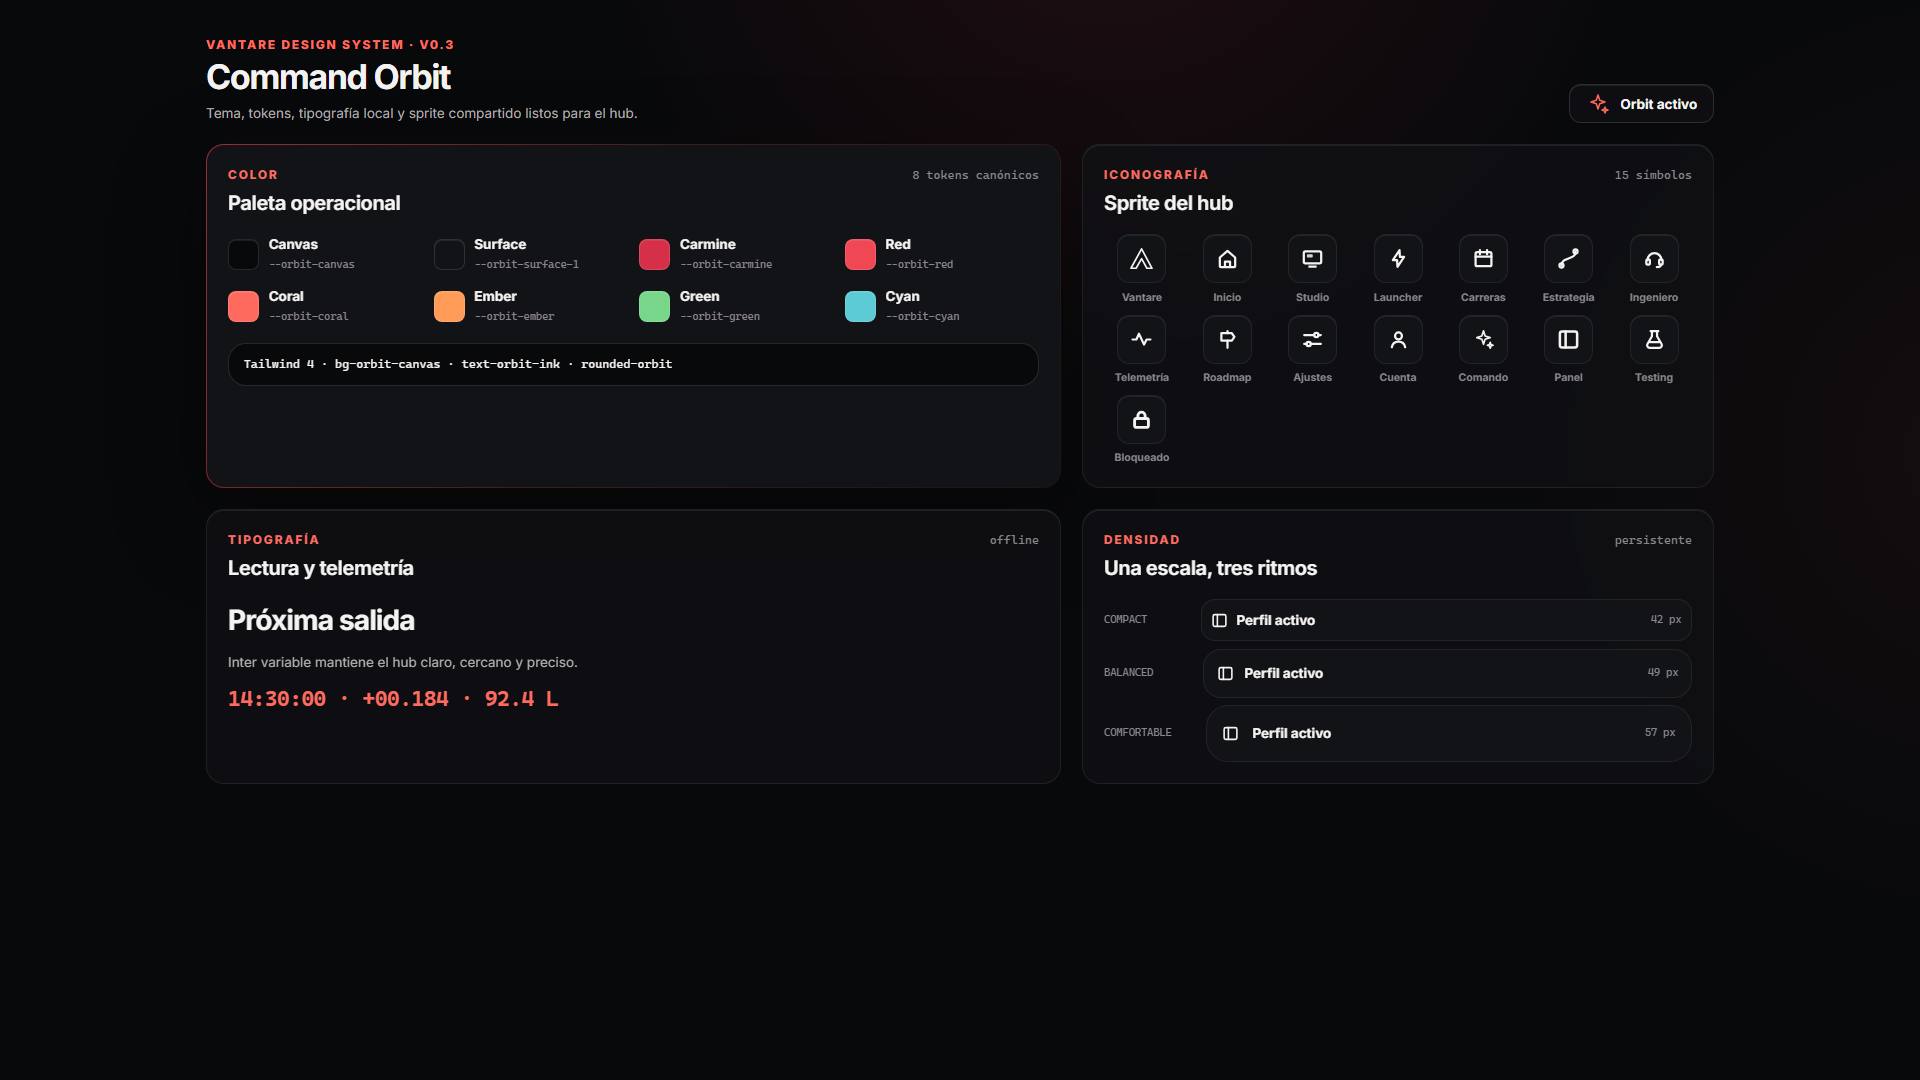
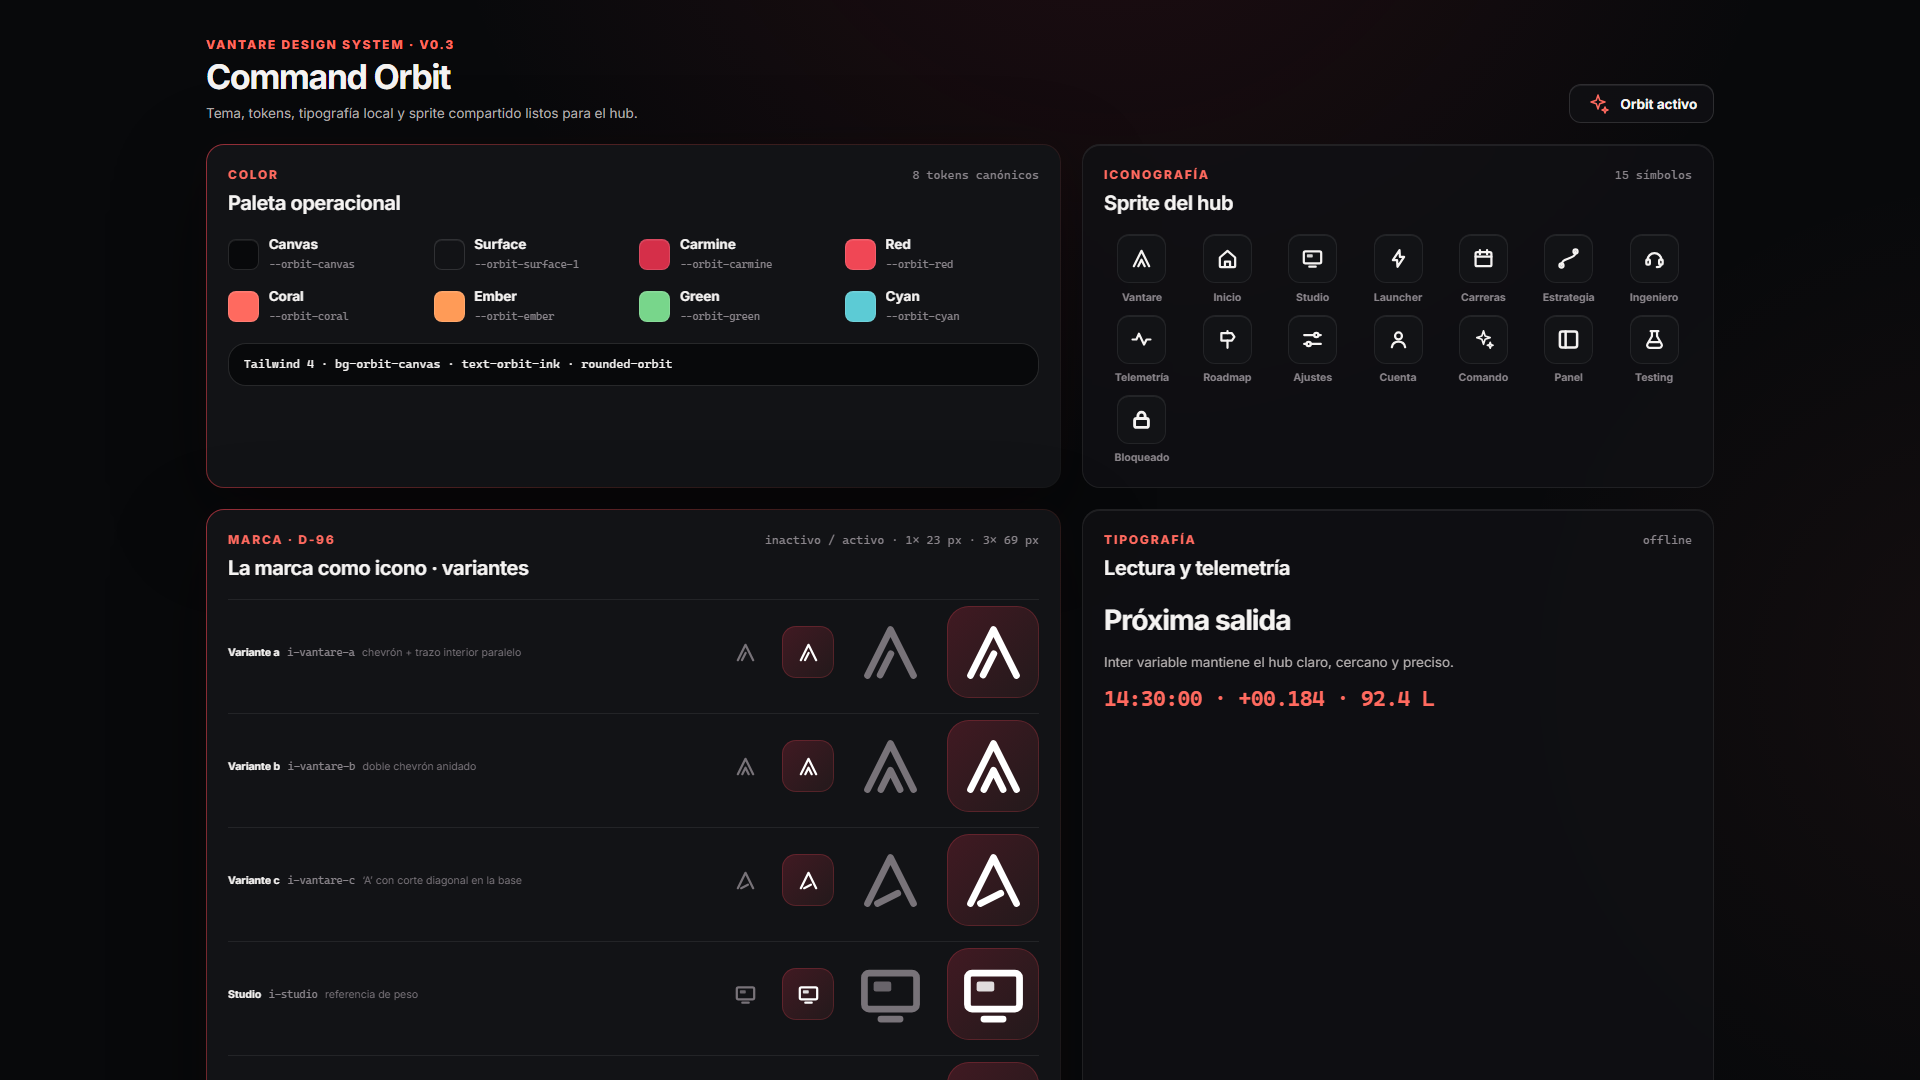
feat(hub): Orbit rail — variantes de la marca como icono (a elegir)
El `i-vantare` anterior era un contorno cerrado en caja 24: a 23 px se leía como
un triángulo con un hueco pequeño y no casaba con el peso de sus vecinos, que
son formas abiertas de línea en caja 18. Se rehace en tres variantes que
comparten el chevrón exterior `M3 15 9 3l6 12` (caja 18, alto visual 3→15 igual
que `i-studio`/`i-launcher`, trazo heredado 1.75, `fill: none`, ápice y extremos
redondos) y se diferencian en el gesto interior:

- `i-vantare-a` · trazo corto paralelo al brazo izquierdo (`M9.1 9.3 6.3 14.9`)
- `i-vantare-b` · doble chevrón anidado (`M6.5 15 9 10l2.5 5`), el hueco en ‘V’
- `i-vantare-c` · corte diagonal en la base (`M5.6 15 10.9 12.3`), la ‘A’

Las tres se quedan en el sprite hasta que se decida; `i-vantare`, que es lo que
consume `RAIL_ORDER`, copia hoy la variante b de forma provisional. La franja de
comparación vive en `orbit-tokens-harness` (inactivo/activo, 23 px y 69 px,
contra `i-studio`/`i-launcher`/`i-carreras`) y el harness de fundamentos la
guarda en `evidence/porte/01-shell/orbit-rail-mark-variants.png`. La rejilla de
iconos sigue con 15 símbolos: las variantes van en su propio panel.

diff --git a/vantare-v2/frontend/src/orbit-tokens-harness.tsx b/vantare-v2/frontend/src/orbit-tokens-harness.tsx
@@ -38,6 +38,17 @@ const icons: { name: IconName; label: string }[] = [
   { name: "i-lock", label: "Bloqueado" },
 ];
 
+/** Franja de comparación de la marca como icono (D-96): tres variantes a
+ *  decidir, medidas contra tres vecinos del catálogo. */
+const markRows: { name: IconName; label: string; note: string }[] = [
+  { name: "i-vantare-a", label: "Variante a", note: "chevrón + trazo interior paralelo" },
+  { name: "i-vantare-b", label: "Variante b", note: "doble chevrón anidado" },
+  { name: "i-vantare-c", label: "Variante c", note: "‘A’ con corte diagonal en la base" },
+  { name: "i-studio", label: "Studio", note: "referencia de peso" },
+  { name: "i-launcher", label: "Launcher", note: "referencia de peso" },
+  { name: "i-carreras", label: "Carreras", note: "referencia de peso" },
+];
+
 export function Harness() {
   return (
     <main className="orbit-harness" data-testid="orbit-foundations-harness">
@@ -96,6 +107,39 @@ export function Harness() {
                   <Icon name={icon.name} size={23} strokeWidth={1.75} />
                 </span>
                 <span>{icon.label}</span>
+              </div>
+            ))}
+          </div>
+        </article>
+
+        <article className="orbit-harness__panel orbit-harness__panel--featured">
+          <div className="orbit-harness__panel-head">
+            <div>
+              <p className="orbit-harness__eyebrow">Marca · D-96</p>
+              <h2>La marca como icono · variantes</h2>
+            </div>
+            <span className="orbit-harness__meta">inactivo / activo · 1× 23 px · 3× 69 px</span>
+          </div>
+          <div className="orbit-harness__marks" data-testid="orbit-mark-variants">
+            {markRows.map((row) => (
+              <div className="orbit-harness__mark" key={row.name}>
+                <span className="orbit-harness__mark-name">
+                  <strong>{row.label}</strong>
+                  <code>{row.name}</code>
+                  <em>{row.note}</em>
+                </span>
+                <span className="orbit-harness__mark-tile">
+                  <Icon name={row.name} size={23} strokeWidth={1.75} />
+                </span>
+                <span className="orbit-harness__mark-tile orbit-harness__mark-tile--active">
+                  <Icon name={row.name} size={23} strokeWidth={1.75} />
+                </span>
+                <span className="orbit-harness__mark-tile orbit-harness__mark-tile--xl">
+                  <Icon name={row.name} size={69} strokeWidth={1.75} />
+                </span>
+                <span className="orbit-harness__mark-tile orbit-harness__mark-tile--xl orbit-harness__mark-tile--active">
+                  <Icon name={row.name} size={69} strokeWidth={1.75} />
+                </span>
               </div>
             ))}
           </div>

diff --git a/vantare-v2/frontend/src/orbit-tokens-harness.css b/vantare-v2/frontend/src/orbit-tokens-harness.css
@@ -265,3 +265,62 @@
 .orbit-harness__density-row code {
   margin-left: auto;
 }
+
+/* ---- Marca como icono · variantes (D-96) --------------------------------
+   Los tiles copian el botón del rail (52 px, radio 14, ink-4; activo con el
+   degradado carmín) para juzgar las variantes en su contexto real. */
+
+.orbit-harness__marks {
+  display: grid;
+  gap: calc(var(--orbit-space) * .4);
+}
+
+.orbit-harness__mark {
+  display: grid;
+  grid-template-columns: minmax(0, 1fr) repeat(2, 52px) repeat(2, 92px);
+  align-items: center;
+  gap: calc(var(--orbit-space) * .5);
+  padding: calc(var(--orbit-space) * .3) 0;
+  border-top: 1px solid var(--orbit-line);
+}
+
+.orbit-harness__mark-name {
+  display: flex;
+  min-width: 0;
+  flex-wrap: wrap;
+  align-items: baseline;
+  gap: calc(var(--orbit-space) * .35);
+  color: var(--orbit-ink-3);
+  font-size: var(--orbit-fs-micro);
+}
+
+.orbit-harness__mark-name strong {
+  color: var(--orbit-ink);
+}
+
+.orbit-harness__mark-name em {
+  color: var(--orbit-ink-4);
+  font-style: normal;
+}
+
+.orbit-harness__mark-tile {
+  display: grid;
+  width: 52px;
+  height: 52px;
+  place-items: center;
+  border-radius: 14px;
+  color: var(--orbit-ink-4);
+  background: transparent;
+}
+
+.orbit-harness__mark-tile--xl {
+  width: 92px;
+  height: 92px;
+  border-radius: 22px;
+}
+
+.orbit-harness__mark-tile--active {
+  color: #fff;
+  background: linear-gradient(135deg, rgba(213, 47, 73, .24), rgba(255, 106, 95, .07));
+  box-shadow: inset 0 0 0 1px rgba(240, 71, 85, .22);
+}

diff --git a/vantare-v2/frontend/src/ui/orbit/Icon.tsx b/vantare-v2/frontend/src/ui/orbit/Icon.tsx
@@ -2,6 +2,9 @@ import spriteUrl from "../../assets/orbit-icons.svg?no-inline";
 
 export type IconName =
   | "i-vantare"
+  | "i-vantare-a"
+  | "i-vantare-b"
+  | "i-vantare-c"
   | "i-inicio"
   | "i-studio"
   | "i-launcher"

diff --git a/vantare-v2/docs/design/orbit-v03/00-decisiones.md b/vantare-v2/docs/design/orbit-v03/00-decisiones.md
@@ -328,3 +328,16 @@ Lo que **no** cambia: el diseño, los tokens y los datos. Esto es cableado y est
 (1) **Inicio lleva la marca de Vantare, no una casita.** El sprite gana `i-vantare`, el chevrón ‘A’ sin travesaño del logotipo trazado como contorno cerrado con las reglas del resto del sprite (`stroke="currentColor"`, trazo heredado 1.75, sin relleno, uniones redondas). Caja 24 —como `i-comando`— y no 18: con caja 18 el trazo relativo se come el hueco interior del chevrón y a 23 px la ‘A’ se cierra en un triángulo. `RAIL_ORDER` apunta Inicio a `i-vantare`; la losa de marca de la cabecera del rail sigue con el PNG a color, así que el rail no repite el mismo dibujo: arriba la marca llena en carmín, abajo el icono de línea que se ilumina con la barra de activo.
 
 (2) **El avatar es la foto de la cuenta, nunca la inicial del plan.** El rail caía en `planLabel.charAt(0)` —de ahí la ‘F’ de Free— porque la shell le pasaba `avatarSrc={undefined}` y nadie leía la sesión. Se añade `orbit/use-account-identity.ts` como fuente única de `{ displayName, email, avatarUrl }`: lee la sesión real de Supabase (Google deja el nombre y la foto en `user_metadata` con dos nombres cada uno, `full_name`/`name` y `avatar_url`/`picture`; se aceptan los cuatro), se suscribe a los cambios de sesión y usa el correo de la licencia como respaldo. La consumen el rail y Ajustes › Cuenta, que antes inventaban su identidad por separado. Sin foto se pinta la inicial del **nombre**, y si no hay nombre la del correo; el plan ya no participa. Si la imagen no carga se vuelve a la inicial, y se recuerda *qué* url falló, no un booleano, para que un cambio de foto se reintente. `Rail` pierde la prop `planLabel`: quitarla es lo que garantiza que la regresión no puede volver. Los harnesses siembran una identidad de prueba con `seedAccountIdentity`, porque sin runtime ni Supabase configurado no hay sesión y la captura saldría con el avatar vacío.
+
+## D-96 · El rail no repite la marca: fuera la losa, y la marca como icono se decide sobre capturas
+**Decisión.** Dos cambios sobre el rail, uno cerrado y otro abierto.
+
+(1) **Se elimina la losa cuadrada de marca de la cabecera del rail** (`.orbit-rail__brand` y su PNG de 26 px dentro de la caja de 49 px, la prop `labels.brand` del `Rail`, la clave `shell.rail.brand` de los cuatro idiomas y el `data-testid="orbit-rail-brand"`). Desde D-95 el botón de Inicio ya pinta la marca como icono de línea: la losa la decía dos veces, una en carmín lleno y otra a 23 px justo debajo. El rail arranca ahora directamente en Inicio, con `padding-top: 9px` — el botón mide 52 px y la topbar 70 px, así que `(70 − 52) / 2 = 9` deja el primer icono centrado en la banda de la cabecera y alineado con el título de la columna contextual. El PNG `assets/orbit/vantare-mark.png` se conserva en el repositorio (es la marca real extraída del prototipo), simplemente ya no lo consume nadie. `03-shell-y-layout.md` sigue describiendo la losa: el documento es de solo lectura en este porte y esta decisión es la que manda.
+
+(2) **La marca como icono se rehace y queda en tres variantes hasta que se elija.** El `i-vantare` de D-95 era un contorno *cerrado* en caja 24: a 23 px se leía como un triángulo con un hueco pequeño y no casaba con el peso de sus vecinos, que son formas abiertas de línea en caja 18. Las tres variantes nuevas comparten el chevrón exterior `M3 15 9 3l6 12` en caja 18 —mismo alto visual (3→15) que `i-studio` y `i-launcher`, trazo heredado 1.75, `fill: none`, ápice y extremos redondos por herencia— y se diferencian solo en el gesto interior:
+
+- `i-vantare-a` — chevrón + trazo corto interior paralelo al brazo izquierdo (`M9.1 9.3 6.3 14.9`): sugiere el peso del brazo izquierdo del logotipo sin cerrar la figura.
+- `i-vantare-b` — doble chevrón anidado (`M6.5 15 9 10l2.5 5`): es literalmente el hueco en ‘V’ de la marca, con las dos ‘V’ paralelas (pendiente ±0.5 en ambas).
+- `i-vantare-c` — chevrón + corte diagonal corto en la base interior (`M5.6 15 10.9 12.3`): la ‘A’ estilizada, el travesaño convertido en corte.
+
+Las tres se quedan en el sprite hasta que Isaac decida; `i-vantare`, que es lo que consume `RAIL_ORDER`, copia hoy la variante **b** de forma provisional. La franja de comparación vive en `orbit-tokens-harness` (`data-testid="orbit-mark-variants"`, tres variantes contra tres vecinos del catálogo, en inactivo y activo, a 23 px y a 69 px) y `scripts/orbit-foundations-visual.mjs` la guarda como evidencia de la shell en `evidence/porte/01-shell/orbit-rail-mark-variants.png`. La rejilla de iconos de fundamentos sigue teniendo 15 símbolos: las variantes se pintan en su propio panel para no tocar ese contrato.
